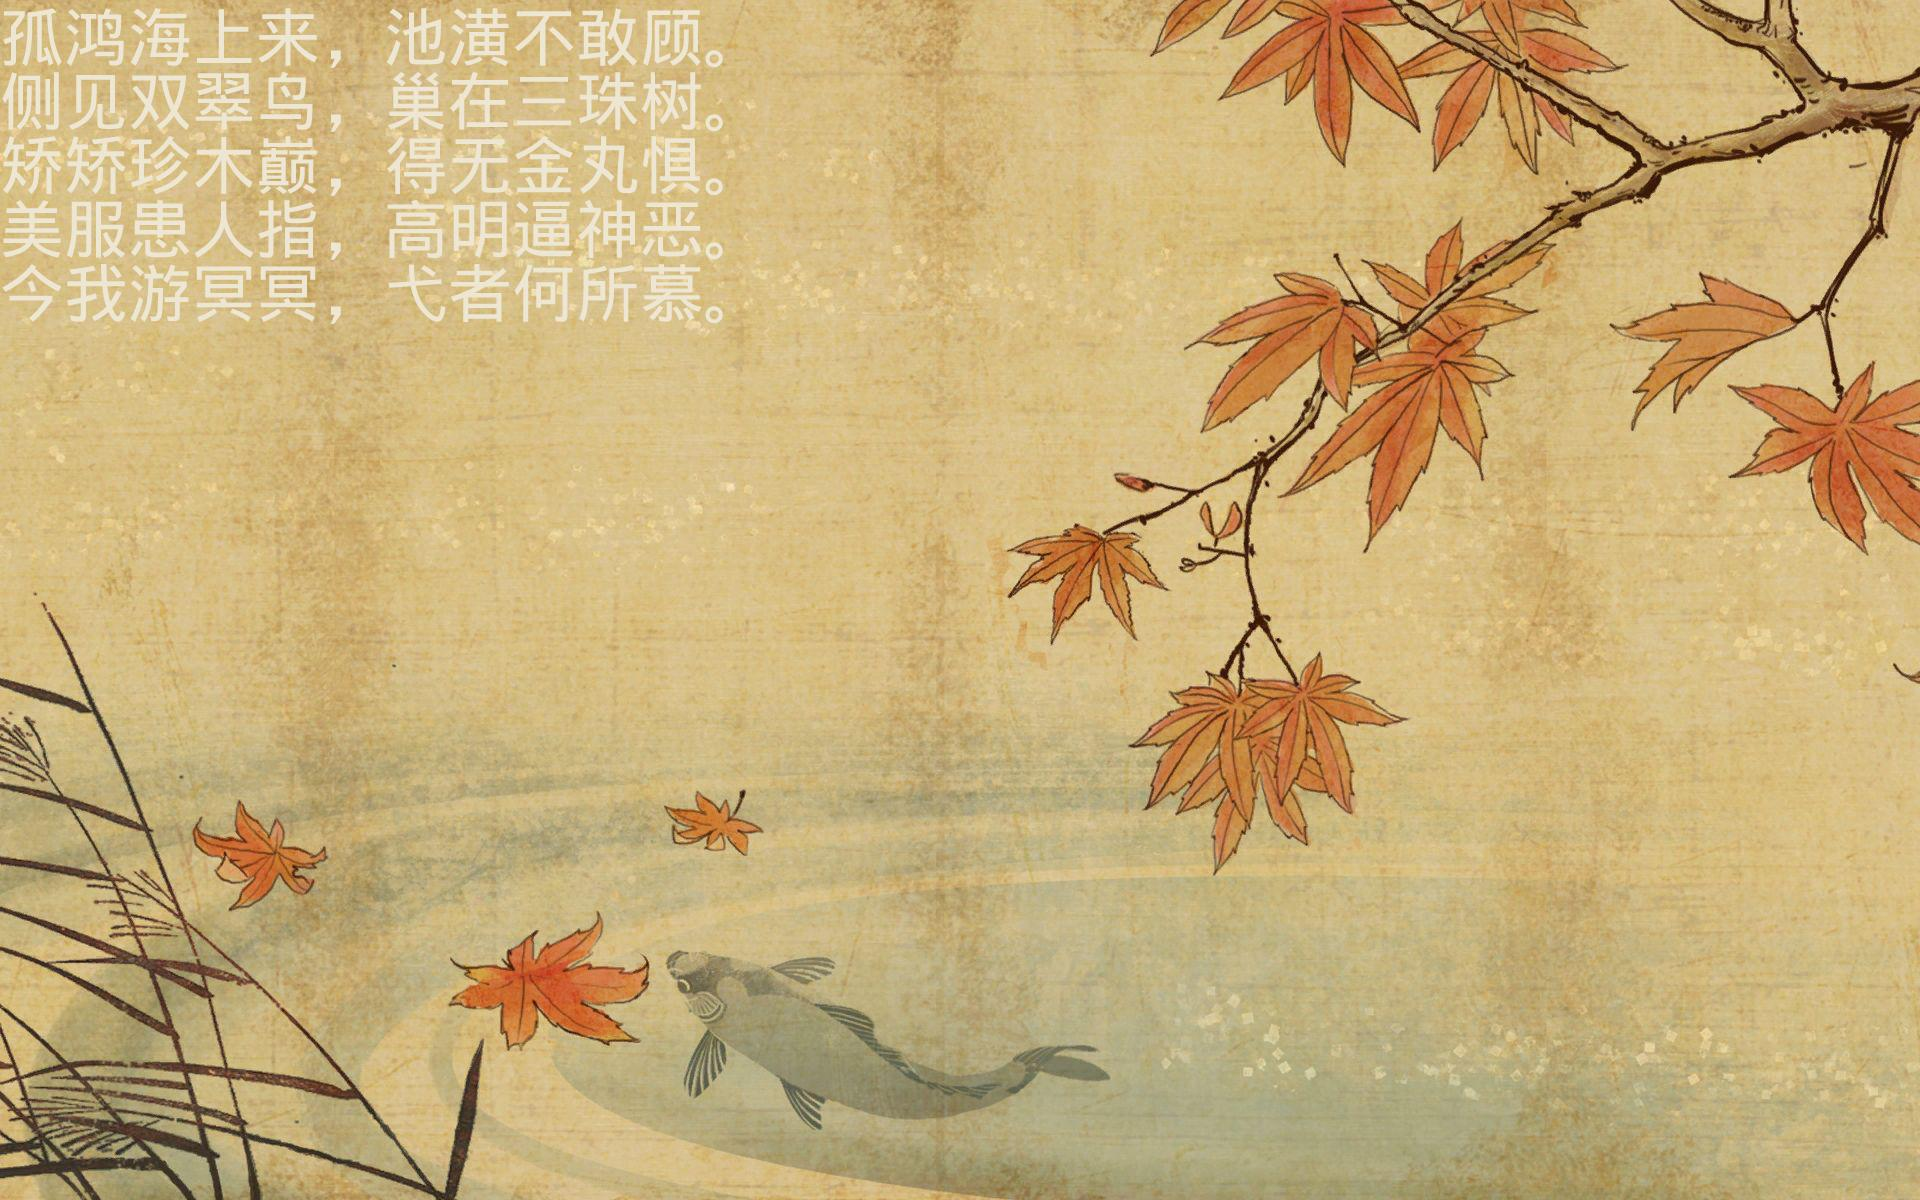
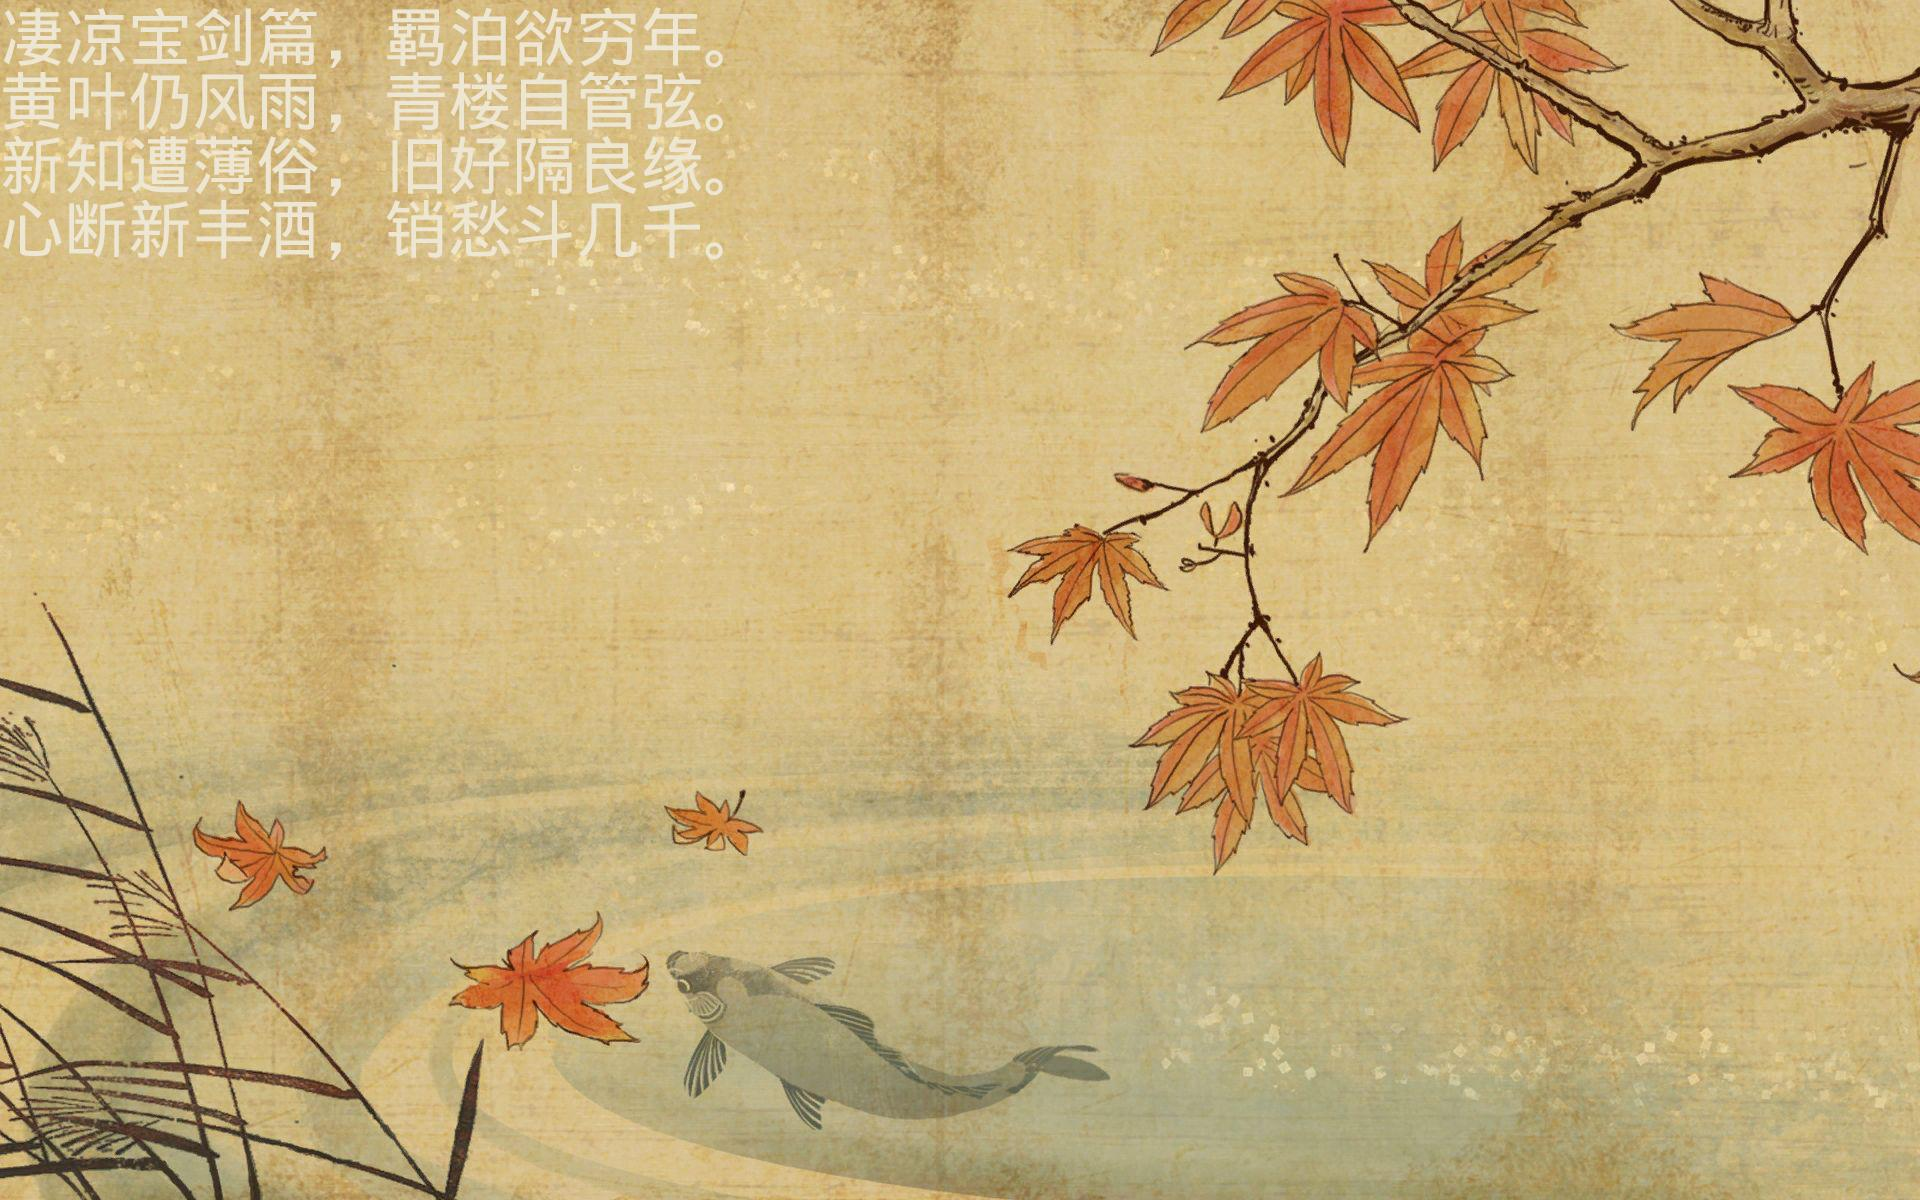
Add random selection

Changed region(s): [[0.0, 0.0, 0.375, 0.2775]]

diff --git a/300tang/main.py b/300tang/main.py
@@ -1,10 +1,30 @@
 from PIL import Image, ImageFont, ImageDraw 
+import json
+import random
+
+#random poem id
+n = random.randint(0,319)
+print(n)
+
+with open('poems.json') as f:
+  data = json.load(f)
+
+
+def find_poem (n):
+ for keyval in data:
+  if n == keyval['id']:
+   return keyval['contents']
+
+if (find_poem(n) != None):
+  title_text=find_poem(n)
+else:
+  print("Couldn't get poem. Please try running the application again")
+
+
+
 
 
 base = Image.open("base.jpeg")
-
-title_text = "孤鸿海上来，池潢不敢顾。\n侧见双翠鸟，巢在三珠树。\n矫矫珍木巅，得无金丸惧。\n美服患人指，高明逼神恶。\n今我游冥冥，弋者何所慕。"
-
 
 image_editable = ImageDraw.Draw(base)
 
